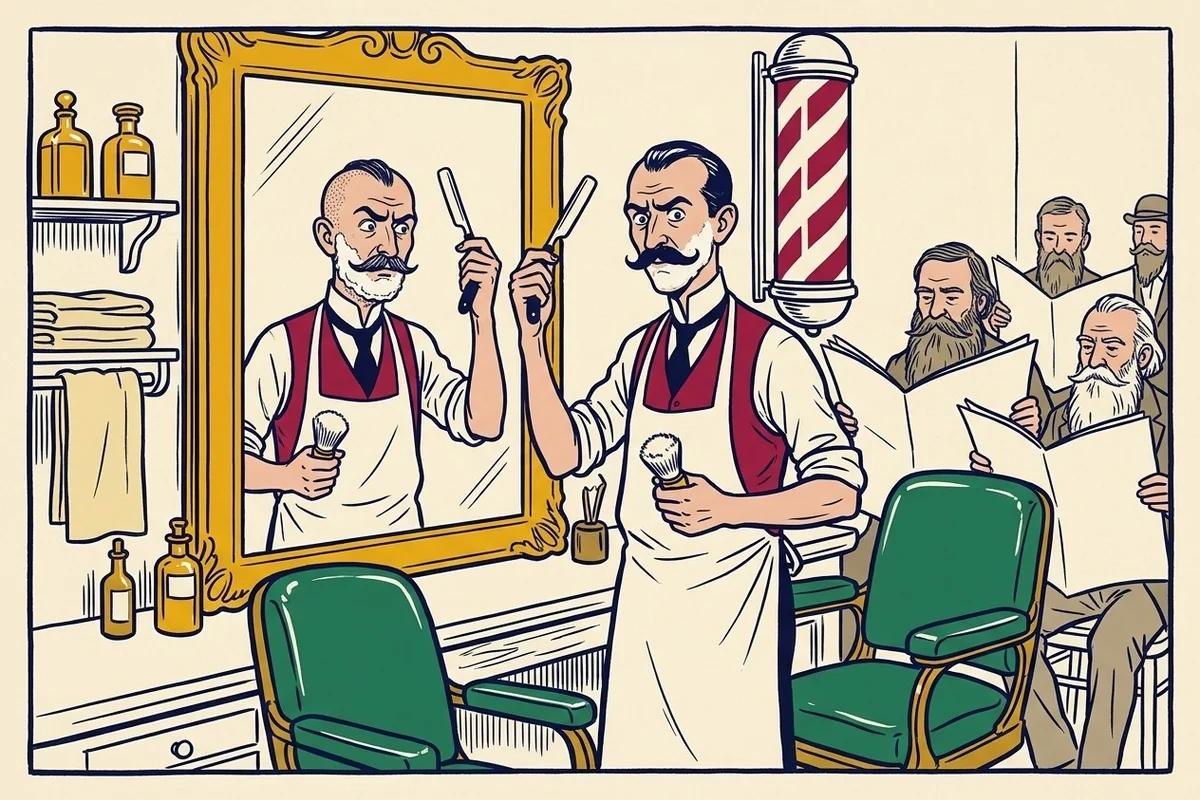
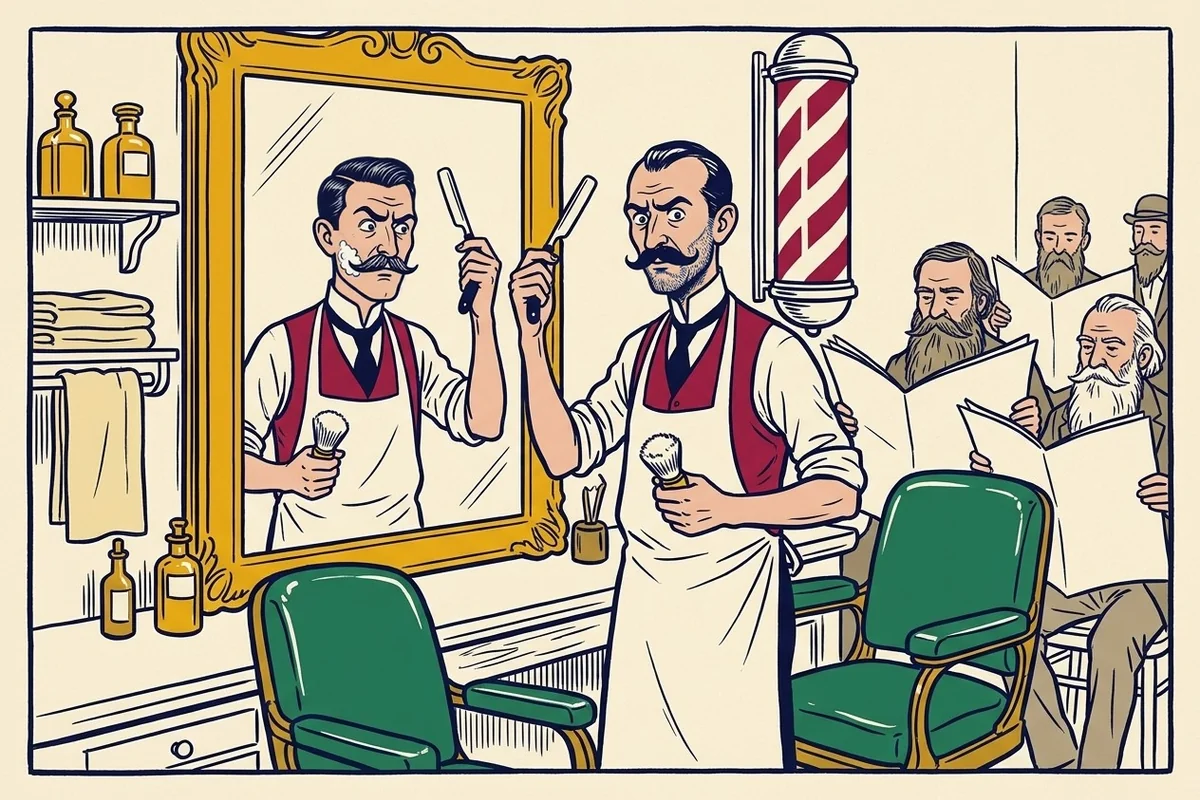
feat(shtam): barbier retouché, barbe de trois jours et reflet rasé

Changed region(s): [[0.2467, 0.1875, 0.37, 0.4062], [0.5242, 0.2812, 0.6167, 0.375]]

diff --git a/docs/Chiphres/illustrations/shtam/patatovie-barbier-paradoxe/prompt.md b/docs/Chiphres/illustrations/shtam/patatovie-barbier-paradoxe/prompt.md
@@ -1,11 +1,13 @@
 # Dessin du Shtam — patatovie-barbier-paradoxe
 
+Image retenue : **essai 1 retouché** (`retouche.jpg`), par deux carrés (`zones-retouches.txt`, `coller-retouches.sh`, masque par différence) : barbier → barbe de trois jours (`barbier-ia.jpg`) ; reflet → rasé de près, mousse sur une joue, cheveux plaqués (`reflet-ia.jpg`, deux passes). Idée de David. Le prompt v2 ci-dessous (scène refaite) a donné une image « très mauvaise » : non gardée.
+
 Pièces jointes (nouvelle conversation Nano Banana) : `nuancier-imprimerie-reference.png`.
 
 ```text
 Draw a newspaper illustration for a satirical article: a barber, standing in front of his own mirror, cannot decide whether he is allowed to shave himself.
 
-Scene: an 1900s barbershop. The barber, a thin, proud man with slicked hair and a big moustache, a white apron over a crimson waistcoat, stands in front of a large gilded mirror, a straight razor raised halfway in one hand, a shaving brush in the other, frozen in deep perplexity, eyebrows twisted. Only one of his cheeks is shaved and smooth; the other is covered with white shaving foam. His reflection in the mirror makes exactly the same puzzled face. Around him: an empty leather barber chair, a striped barber pole, shelves of bottles and towels, a few waiting customers with long beards reading newspapers with blank pages.
+Scene: an 1900s barbershop. The barber, a thin, proud man with slicked dark hair, a big moustache and a scruffy three-day stubble on his cheeks and chin, a white apron over a crimson waistcoat, stands in front of a large gilded mirror, a straight razor raised halfway in one hand, a shaving brush in the other, frozen in deep perplexity, eyebrows twisted, staring at his reflection. The reflection in the mirror is NOT the same as him: in the mirror he is cleanly shaved, with perfectly smooth cheeks and chin, and a little white shaving foam still left on one cheek only; same hair, same moustache, same clothes, same puzzled face. Around him: an empty leather barber chair, a striped barber pole, shelves of bottles and towels, a few waiting customers with long beards reading newspapers with blank pages.
 
 Style: 1896 Montmartre lithographic print in the manner of Théophile-Alexandre Steinlen, as a press drawing printed in an old newspaper: bold thick dark contours, flat color areas, no gradients, no 3D, flat shadow shapes only. Funny, never scary, for students aged 11 to 17.
 

diff --git a/src/lib/server/shtam/articles/patatovie-barbier-paradoxe.md b/src/lib/server/shtam/articles/patatovie-barbier-paradoxe.md
@@ -5,7 +5,7 @@ author: giron
 lede: Il s'est regardé dans le miroir mardi matin, et la question l'a laissé sans voix. Le Docteur Faustroll, gouverneur de Patatovie, a dû légiférer.
 ---
 
-![Dans son salon, le barbier, rasoir levé et blaireau à la main, fixe son reflet dans un grand miroir doré, perplexe ; derrière lui, des clients barbus attendent en lisant le journal.](/shtam/patatovie-barbier-paradoxe.webp){size=large}
+![Dans son salon, le barbier, rasoir levé et blaireau à la main, fixe, perplexe, son reflet dans un grand miroir doré : lui porte une barbe de trois jours, son reflet est rasé de près, un reste de mousse sur la joue ; derrière lui, des clients barbus attendent en lisant le journal.](/shtam/patatovie-barbier-paradoxe.webp){size=large}
 
 Depuis l'ouverture de son salon, en 1901, le seul barbier de Cracovenn affiche la même règle sur sa vitrine : « Je rase tous ceux, et seulement ceux, qui ne se rasent pas eux-mêmes. » La règle a longtemps donné satisfaction. Jusqu'à mardi matin, où le barbier s'est regardé dans le miroir.
 
